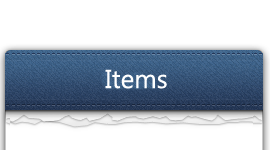
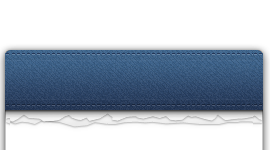
user interface

Changed region(s): [[0.3852, 0.4533, 0.6222, 0.6133]]

diff --git a/client/parties.css b/client/parties.css
@@ -98,8 +98,9 @@ body { background: #f4f8f9 }
     width: 20px;
     height: 20px;
     position: relative;
-    left: 325px;
+    float: right;
     top: 10px;
+	left: -25px;
     cursor: pointer;
     background: url("/Close.png");
 }
@@ -172,13 +173,15 @@ body { background: #f4f8f9 }
 #ItemsTop {
     background: url('/Todo_Top.png');
     background-repeat: no-repeat;
-    width: 579px;
+    width: 270px;
     height: 152px;
+	position: relative;
+	top: -20px;
 }
 #ItemsButton {
     position: relative;
-    top: 45px;
-    left: 59px;
+	top: 65px;
+	left: 220px;
     height: 30px;
     width: 30px;
     background: url('/Button.png');
@@ -192,7 +195,7 @@ body { background: #f4f8f9 }
     padding: 0;
     margin: 0;
     background: transparent;
-    width: 405px;
+    width: 105px;
     height: 30px;
     margin-top: -4px;
     margin-left: -1px;
@@ -205,28 +208,34 @@ body { background: #f4f8f9 }
 .ItemsRow {
     background: url('/Todo_White.png');
     background-repeat: no-repeat;
-    width: 579px;
+    width: 270px;
     height: 40px;
     position: relative;
+	top: -22px;
+	left: -1px;
+	cursor: pointer;
 }
 .ItemsRowAlt {
     background: url('/Todo_Grey.png');
-    width: 579px;
+    width: 270px;
     height: 40px;
     position: relative;
 }
 #ItemsBottom {
     background: url('/Todo_Bottom.png');
     background-repeat: no-repeat;
-    width: 579px;
+    width: 360px;
     height: 69px;
+	position: relative;
+	top: -22px;
+	left: -43px;
 }
 .Checked {
     width: 26px;
     height: 21px;
     position: absolute;
     top: 9.5px;
-    left: 57px;
+    left: 20px;
     background: url('/BoxCheck.png');
 }
 .Unchecked {
@@ -234,23 +243,36 @@ body { background: #f4f8f9 }
     height: 21px;
     position: absolute;
     top: 9.5px;
-    left: 57px;
+    left: 20px;
     background: url('/BoxUncheck.png');
 }
 .Item {
+    width: 0px;
     font-family: Calibri;
     font-size: 18px;
     color: #2F2F2F;
-    position: absolute;
+    position: relative;
     top: 9.5px;
-    left: 115px;
+    left: 75px;
 }
+
+#ItemsTitle {
+    position: absolute;
+    top: 68px;
+	left: 8px;
+    text-align: center;
+    width: 228px;
+    font-family: Calibri;
+    color: #fff;
+    font-size: 18px;
+}
+
 #TitleDate {
     position: absolute;
     color: #2F2F2F;
     font-family: Calibri;
-    top: 122px;
-    left: 108px;
+    top: 130px;
+    left: 47px;
     font-size: 22px;
 }
 .Done {

diff --git a/client/parties.html b/client/parties.html
@@ -38,6 +38,9 @@
           <div class="span4">
               {{> calendar}}
           </div>
+		  <div class="span2">
+              {{> items}}
+          </div>
 
         </div>
       </div>
@@ -70,6 +73,7 @@
 <template name="items">
   <div id="Items" class='Clear'>
     <div id="ItemsTop" class='Clear'>
+	  <div id="ItemsTitle">Items for date</div>
       <div class="addItemButton" id="ItemsButton"></div>
       <div id="TitleDate">{{DayString}}</div>
       <div id="Preloader"></div>
@@ -168,10 +172,10 @@
         {{/if}}
       </h1>
     {{/if}}
-          
           <div class="span3">
             <div id="Items" class='Clear'>
               <div id="ItemsTop" class='Clear'>
+			    <div id="ItemsTitle">Items for party</div>
                 <div id="ItemsButton"></div>
                 <div id="TitleDate">{{DayString}}</div>
                 <div id="Preloader"></div>
